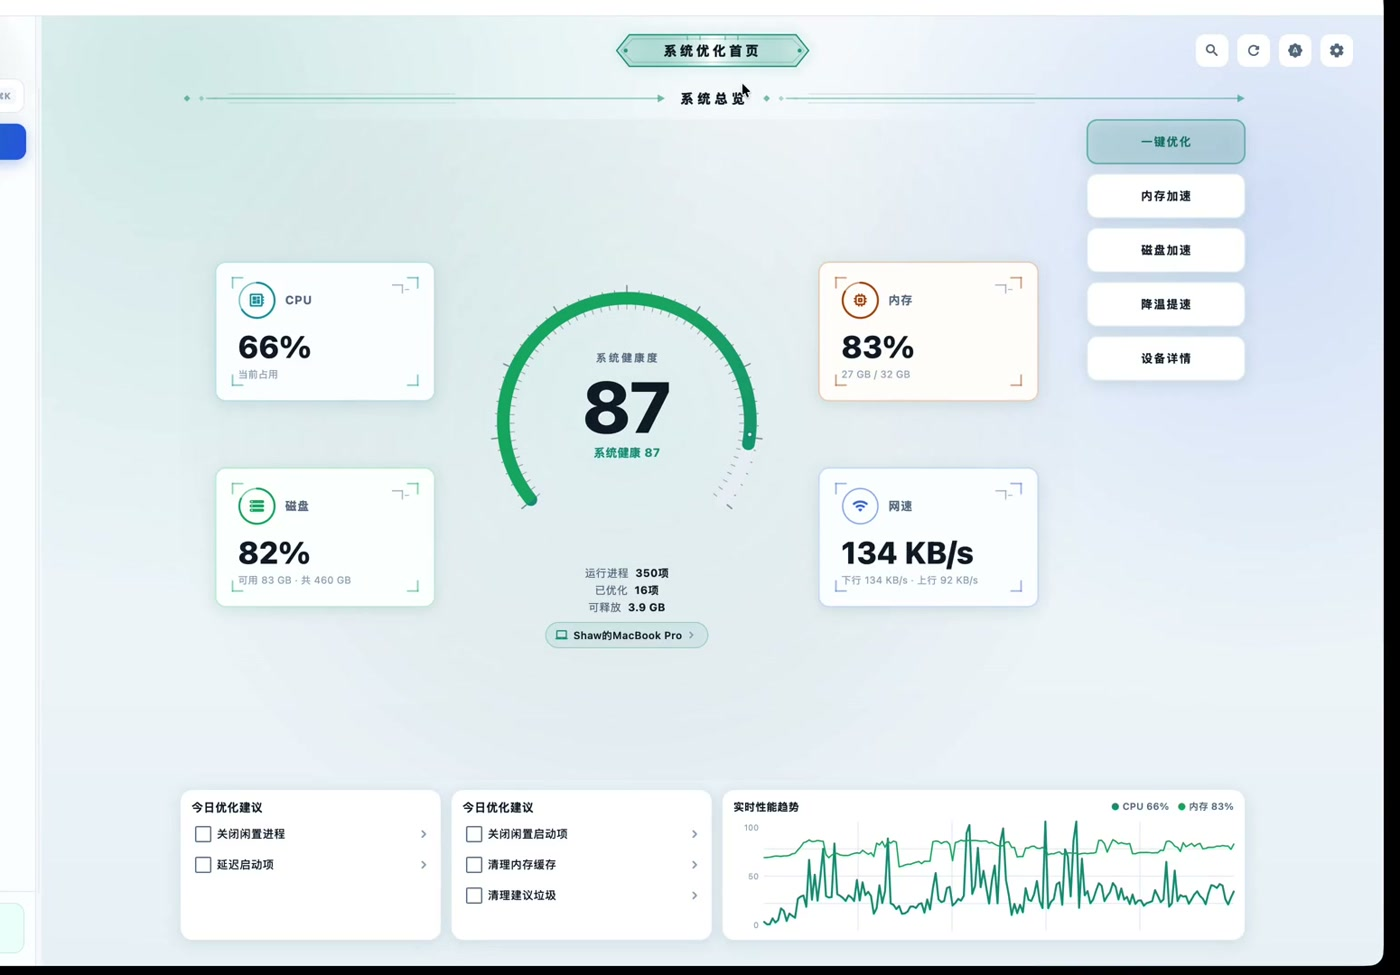
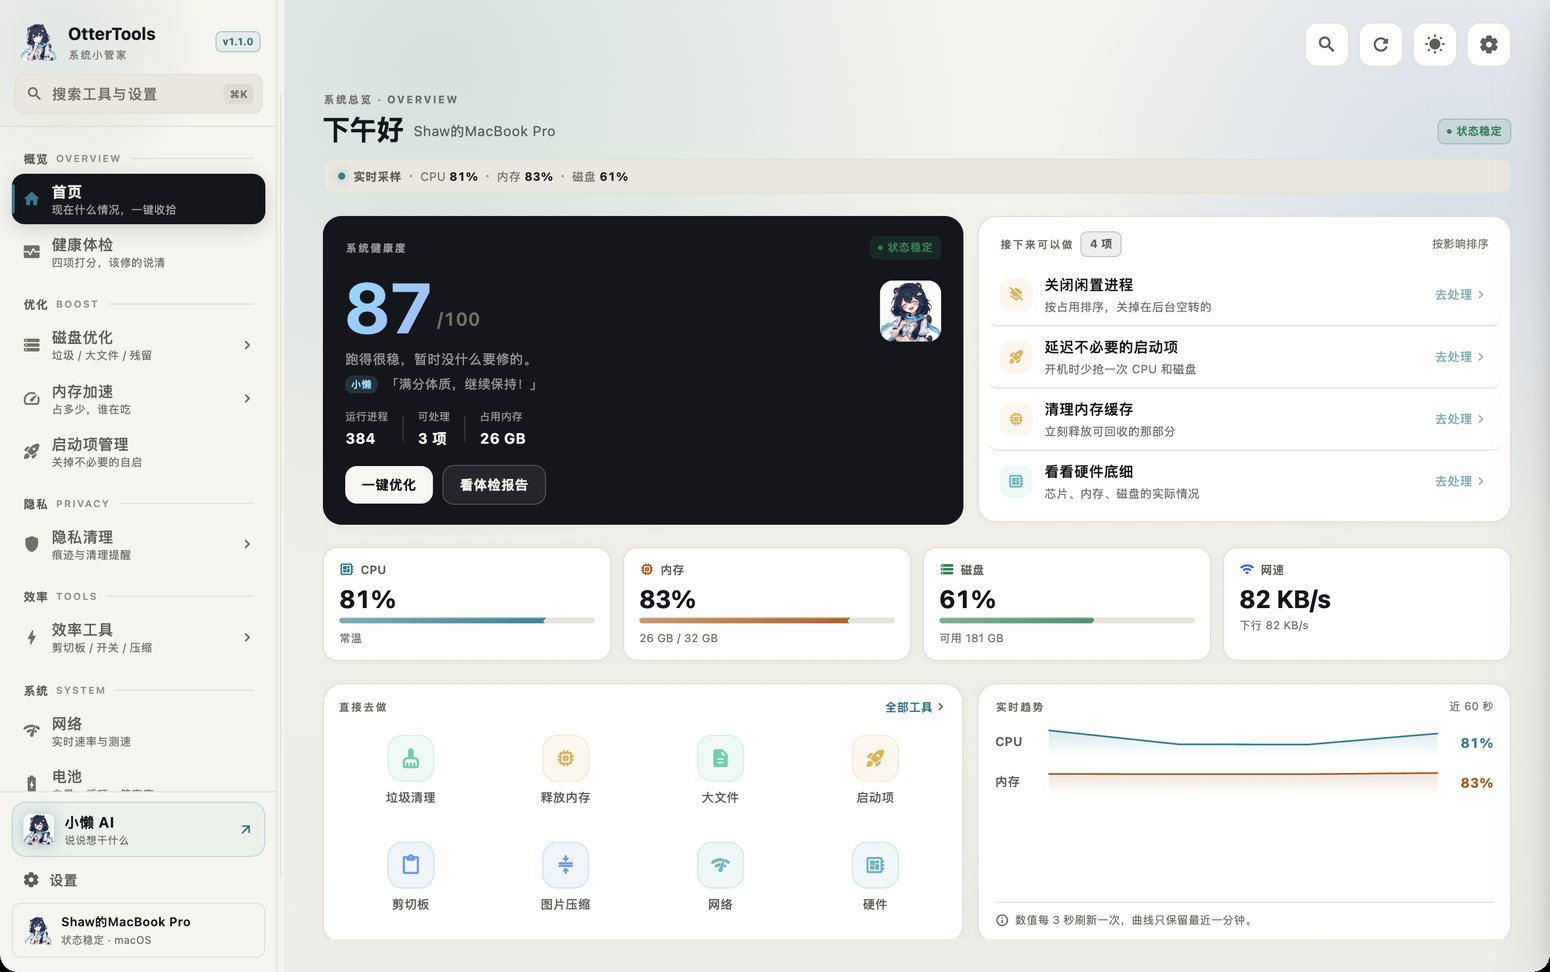
release: 1.1.0 官网改版
- 下载按钮与版本号更新到 1.1.0
- 10 张截图全部换成新界面（新增体检中心一张）
- 功能文案跟着新首页改：健康分 + 四张实时卡 + 建议栏

diff --git a/index.html b/index.html
@@ -64,9 +64,9 @@
           <div class="screen-card">
             <div class="screen-bar">
               <span></span><span></span><span></span>
-              <div class="screen-title">系统优化首页</div>
+              <div class="screen-title">系统总览</div>
             </div>
-            <img src="assets/img/home.jpg" alt="水獭工具首页：四角指标与健康环" />
+            <img src="assets/img/home.jpg" alt="水獭工具首页：健康分、实时指标与可以点的建议" />
           </div>
           <div class="float-stat">
             <div class="fs-label">一次扫描</div>
@@ -117,8 +117,8 @@
               <div class="feat-index">01</div>
               <h3>体检中心</h3>
               <p>
-                打开先给你一份体检：健康分在中间，CPU、内存、磁盘、网速占四角，问题按风险分好类，
-                预计能释放多少空间写在最上面。
+                打开先给你一份体检：左边一个大数字是健康分，下面一句话说清现在什么状况，
+                CPU、内存、磁盘、网速排成一行实时跳。右边是「接下来可以做」，每一条都能点进去。
               </p>
               <ul class="ticks">
                 <li>问题清单按风险分级，每条都说清是什么、要不要动</li>
@@ -127,7 +127,7 @@
               </ul>
             </div>
             <div class="feat-shot">
-              <img src="assets/img/home.jpg" alt="体检中心界面" />
+              <img src="assets/img/health.jpg" alt="体检中心：健康分与四项检查" />
             </div>
           </article>
 
@@ -350,7 +350,7 @@
           </p>
 
           <div class="dl-buttons">
-            <a class="btn btn-lg" href="assets/水獭工具-1.0.2-arm64.dmg" download>
+            <a class="btn btn-lg" href="assets/水獭工具-1.1.0-arm64.dmg" download>
               <svg viewBox="0 0 24 24" width="20" height="20" aria-hidden="true">
                 <path
                   d="M12 4v12m0 0 5-5m-5 5-5-5M5 20h14"
@@ -360,7 +360,7 @@
                   stroke-linecap="square"
                 />
               </svg>
-              下载 macOS 版 <span class="btn-meta">v1.0.2 · ARM64 · 20 MB</span>
+              下载 macOS 版 <span class="btn-meta">v1.1.0 · ARM64 · 20 MB</span>
             </a>
             <span class="btn btn-lg btn-disabled">Windows 版 · 打包中</span>
             <a
